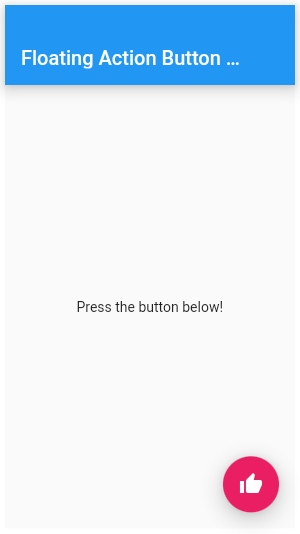
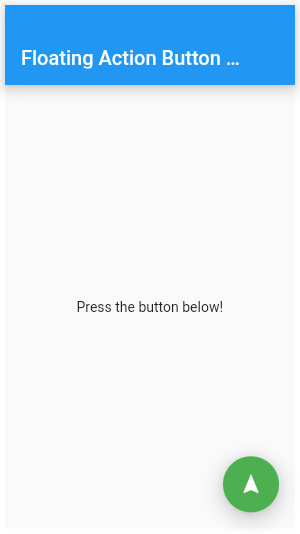
Updated `FloatingActionButton` diagrams based on feedback

Changed region(s): [[0.72, 0.839, 0.93, 0.9588]]

diff --git a/packages/diagrams/lib/src/floating_action_button.dart b/packages/diagrams/lib/src/floating_action_button.dart
@@ -36,18 +36,18 @@ class FloatingActionButtonDiagram extends StatelessWidget implements DiagramMeta
             onPressed: () {
               // Add your onPressed code here!
             },
-            child: Icon(Icons.thumb_up),
-            backgroundColor: Colors.pink,
+            child: Icon(Icons.navigation),
+            backgroundColor: Colors.green,
           ),
         );
         break;
       case _labeled:
         returnWidget = Scaffold(
           appBar: AppBar(
-            title: const Text('Floating Action Button Sample'),
+            title: const Text('Floating Action Button Label'),
           ),
           body: const Center(
-            child: Text('Press the extended button below!'),
+            child: Text('Press the button with a label below!'),
           ),
           floatingActionButton: FloatingActionButton.extended(
             onPressed: () {
